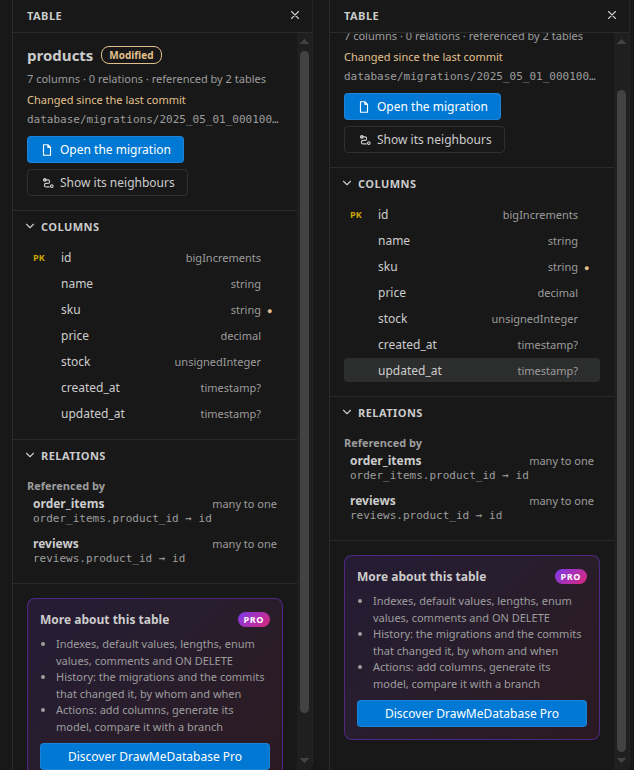
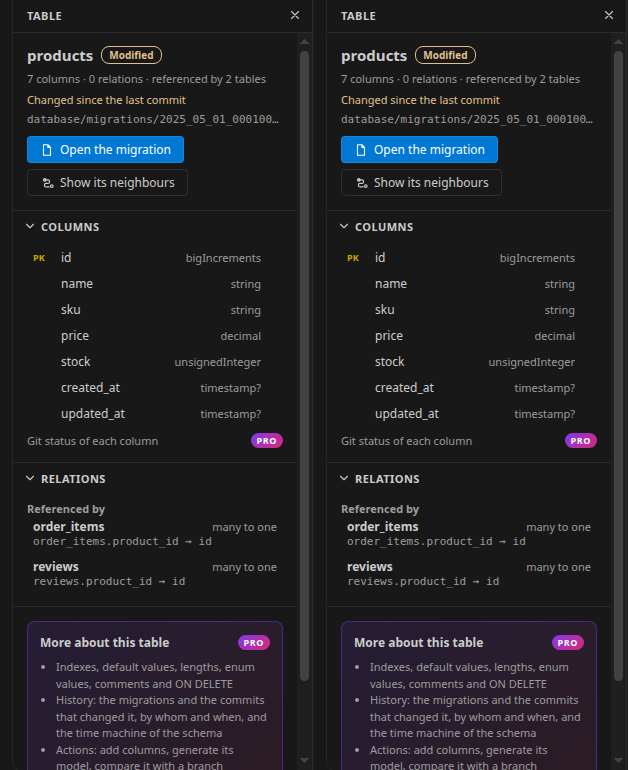
The schema time machine of DrawMeDatabase Pro in the options panel; new screenshots
- pro.timeline joins the tools of DrawMeDatabase Pro listed in the options
  panel (greyed with a PRO badge until Pro adds it), with a history icon.
- README: the time machine of Pro, and new screenshots of the options panel
  (PRO badges) and of the inspector (its own panel).

diff --git a/views/i18n.js b/views/i18n.js
@@ -105,7 +105,7 @@
             'inspector.notInSchema': 'This table is no longer in the schema.',
             'inspector.pro.title': 'More about this table',
             'inspector.pro.details': 'Indexes, default values, lengths, enum values, comments and ON DELETE',
-            'inspector.pro.history': 'History: the migrations and the commits that changed it, by whom and when',
+            'inspector.pro.history': 'History: the migrations and the commits that changed it, by whom and when, and the time machine of the schema',
             'inspector.pro.actions': 'Actions: add columns, generate its model, compare it with a branch',
 
             // Exports
@@ -212,6 +212,8 @@
             // Tools of DrawMeDatabase Pro (shown before it is installed)
             'tool.pro.canvas': 'Schema canvas',
             'tool.pro.canvas.hint': 'Move the tables and the links by hand',
+            'tool.pro.timeline': 'Schema time machine',
+            'tool.pro.timeline.hint': 'Replay the history of the schema, migration after migration or commit after commit',
             'tool.pro.designer': 'Design a table',
             'tool.pro.designer.hint': 'The migration or the entity is written for you',
             'tool.pro.addColumns': 'Add columns',
@@ -349,7 +351,7 @@
             'inspector.notInSchema': 'Cette table n\'est plus dans le schéma.',
             'inspector.pro.title': 'Plus d\'infos sur cette table',
             'inspector.pro.details': 'Index, valeurs par défaut, longueurs, valeurs des enums, commentaires et ON DELETE',
-            'inspector.pro.history': 'Historique : les migrations et les commits qui l\'ont modifiée, par qui et quand',
+            'inspector.pro.history': 'Historique : les migrations et les commits qui l\'ont modifiée, par qui et quand, et la machine à remonter le temps du schéma',
             'inspector.pro.actions': 'Actions : ajouter des colonnes, générer son modèle, la comparer avec une branche',
 
             'export.svg': 'Enregistrer en SVG…',
@@ -453,6 +455,8 @@
 
             'tool.pro.canvas': 'Canevas du schéma',
             'tool.pro.canvas.hint': 'Déplacez les tables et les liens à la main',
+            'tool.pro.timeline': 'Machine à remonter le temps',
+            'tool.pro.timeline.hint': 'Rejouez l\'histoire du schéma, migration après migration ou commit après commit',
             'tool.pro.designer': 'Dessiner une table',
             'tool.pro.designer.hint': 'La migration ou l\'entité s\'écrit pour vous',
             'tool.pro.addColumns': 'Ajouter des colonnes',

diff --git a/extension.js b/extension.js
@@ -86,7 +86,7 @@ const PRO_EXTENSION_ID = 'GuillaumeCancalon.draw-me-database-pro';
 const API_VERSION = 2;
 
 // Tools and exports of DrawMeDatabase Pro, shown greyed in the side panel until it adds them
-const PRO_TOOLS = ['pro.canvas', 'pro.designer', 'pro.addColumns', 'pro.compare', 'pro.compareRefs', 'pro.migrationChanges', 'pro.checks', 'pro.findPath', 'pro.saveView', 'pro.openView', 'pro.models'];
+const PRO_TOOLS = ['pro.canvas', 'pro.timeline', 'pro.designer', 'pro.addColumns', 'pro.compare', 'pro.compareRefs', 'pro.migrationChanges', 'pro.checks', 'pro.findPath', 'pro.saveView', 'pro.openView', 'pro.models'];
 const PRO_EXPORTS = ['pro.sql-mysql', 'pro.sql-postgresql', 'pro.sql-sqlite', 'pro.dbml', 'pro.plantuml', 'pro.typescript', 'pro.html'];
 const LICENSE_KINDS = ['licensed', 'trial', 'expired', 'development'];
 

diff --git a/views/sidepanel.js b/views/sidepanel.js
@@ -41,6 +41,7 @@
         path: 'M4 4.5a1.5 1.5 0 1 0 0-.01M12 11.5a1.5 1.5 0 1 0 0-.01M5.5 4.5H9a2 2 0 0 1 0 4H7a2 2 0 0 0 0 4h3.5',
         view: 'M2 8s2.2-4 6-4 6 4 6 4-2.2 4-6 4-6-4-6-4zM8 6.3a1.7 1.7 0 1 0 0 3.4 1.7 1.7 0 0 0 0-3.4',
         bookmark: 'M4 2h8v12l-4-3-4 3z',
+        history: 'M3.4 6A5 5 0 1 1 3 8M3 3v3h3M8 5.5V8l2 1.5',
         code: 'M5.5 4 2 8l3.5 4M10.5 4 14 8l-3.5 4',
         file: 'M4 2h5l3 3v9H4zM9 2v3h3',
         image: 'M2 3h12v10H2zM2 11l3.5-3.5 3 3 2-2L14 12M10.5 6a1 1 0 1 0 0-.01',

diff --git a/views/app.js b/views/app.js
@@ -447,6 +447,7 @@
 
     const TOOL_ICONS = {
         'pro.canvas': 'canvas',
+        'pro.timeline': 'history',
         'pro.designer': 'designer',
         'pro.addColumns': 'columns',
         'pro.compare': 'compare',

diff --git a/README.md b/README.md
@@ -47,7 +47,7 @@ With its seamless integration into VSCode, DrawMeDatabase empowers developers to
 - **Language**: English or French, or the language of VS Code (the diagram, the messages, and the commands and settings of VS Code)
 - **Tools and exports** of DrawMeDatabase Pro, greyed with a PRO badge until it is installed, and the state of its license
 
-![The options panel: the options of the diagram, the theme, the palettes and the custom colors; the tools and exports of DrawMeDatabase Pro, greyed with a PRO badge](images/screenshots/options-panel.png)
+![The options panel: the options of the diagram and the theme; the git status of each column, the palettes, the colors, and the tools and exports of DrawMeDatabase Pro, greyed with a PRO badge](images/screenshots/options-panel.png)
 
 **JSON viewer:** the parsed schema, colored like code, to save or copy.
 
@@ -62,6 +62,7 @@ DrawMeDatabase is free, and everything it does today stays free. **DrawMeDatabas
 - **Git status of every column**, live: the new, modified and unsaved columns in the diagram and in the inspector
 - **Inspector of the tables**: the columns in detail (sizes, defaults, enum values, comments), the indexes, the foreign keys with their `ON DELETE`, the history of the table (migrations, commits, authors, dates) and actions
 - **Your colors**: palettes in a light and a dark version, custom colors (background, headers, text, borders, links, highlight, git status) and fonts
+- **Schema time machine**: replay the history of the schema, migration after migration or commit after commit, with what each step added, changed or removed
 - **Schema canvas**: a second view where you move the tables and the links by hand, with the git status of every column; the layout is kept and can be shared with your team
 - **Table designer**: draw a table (columns, types, keys, relations) and get the Laravel migration or the Doctrine entity written for you
 - **Schema comparison**: what changed between two branches or commits, and what a migration does, with a report to paste in a pull request
@@ -69,6 +70,8 @@ DrawMeDatabase is free, and everything it does today stays free. **DrawMeDatabas
 - **Schema checks** in the Problems panel: missing primary or foreign keys, mismatched types, naming...
 - **Large schemas**: the path between two tables, saved views shared with your team
 - **Laravel**: Eloquent models with their relationships, generated from the schema
+
+![DrawMeDatabase Pro: the schema time machine replays the migrations one after the other](images/screenshots/pro-time-machine.gif)
 
 ![DrawMeDatabase Pro: the git status of every column follows a migration as it is typed](images/screenshots/pro-live-columns.gif)
 

diff --git a/CHANGELOG.md b/CHANGELOG.md
@@ -160,6 +160,7 @@ A new diagram viewer: Mermaid 12, zoom and pan, export, and the colors of your V
 - Appearance: light or dark whatever the VS Code theme, seven palettes with a light and a dark version, custom colors (background, table headers, text, borders, links, highlight, git status), the font and the size of the text, the background grid
 - Diagram options: keys only, relation names
 - What DrawMeDatabase Pro adds to the diagram, shown with a PRO badge in the free version: the git status of each column (setting `DrawMeDatabase.showColumnGitStatus`), the palettes, the custom colors and the fonts. The git status of the tables, the theme (auto, light, dark) and the text size stay free
-- An inspector of the tables: a click on a table shows its columns (keys, types, nullable, git status, and the line of each column), the tables it references and the ones that reference it, with buttons to open its file and to show its neighbours; a double-click (or Ctrl+click) opens its file. DrawMeDatabase Pro adds its indexes, defaults, history and actions
+- The schema time machine of DrawMeDatabase Pro in the tools of the options panel
+- An inspector of the tables, in its own panel on the left: a click on a table shows its columns (keys, types, nullable, git status, and the line of each column), the tables it references and the ones that reference it, with buttons to open its file and to show its neighbours; a double-click (or Ctrl+click) opens its file. DrawMeDatabase Pro adds its indexes, defaults, history and actions
 - French: the diagram, the messages, and the commands and settings in VS Code (`DrawMeDatabase.language`: `auto`, `en` or `fr`)
 - API version 2: `registerTool()`, `setLicenseStatus()`, `registerTableInfoProvider()`, `getDisplaySettings()` and `onDidChangeDisplaySettings`, and the page scripts `i18n.js`, `appearance.js` and `sidepanel.js` for the panels of other extensions (`docs/api.md`)
